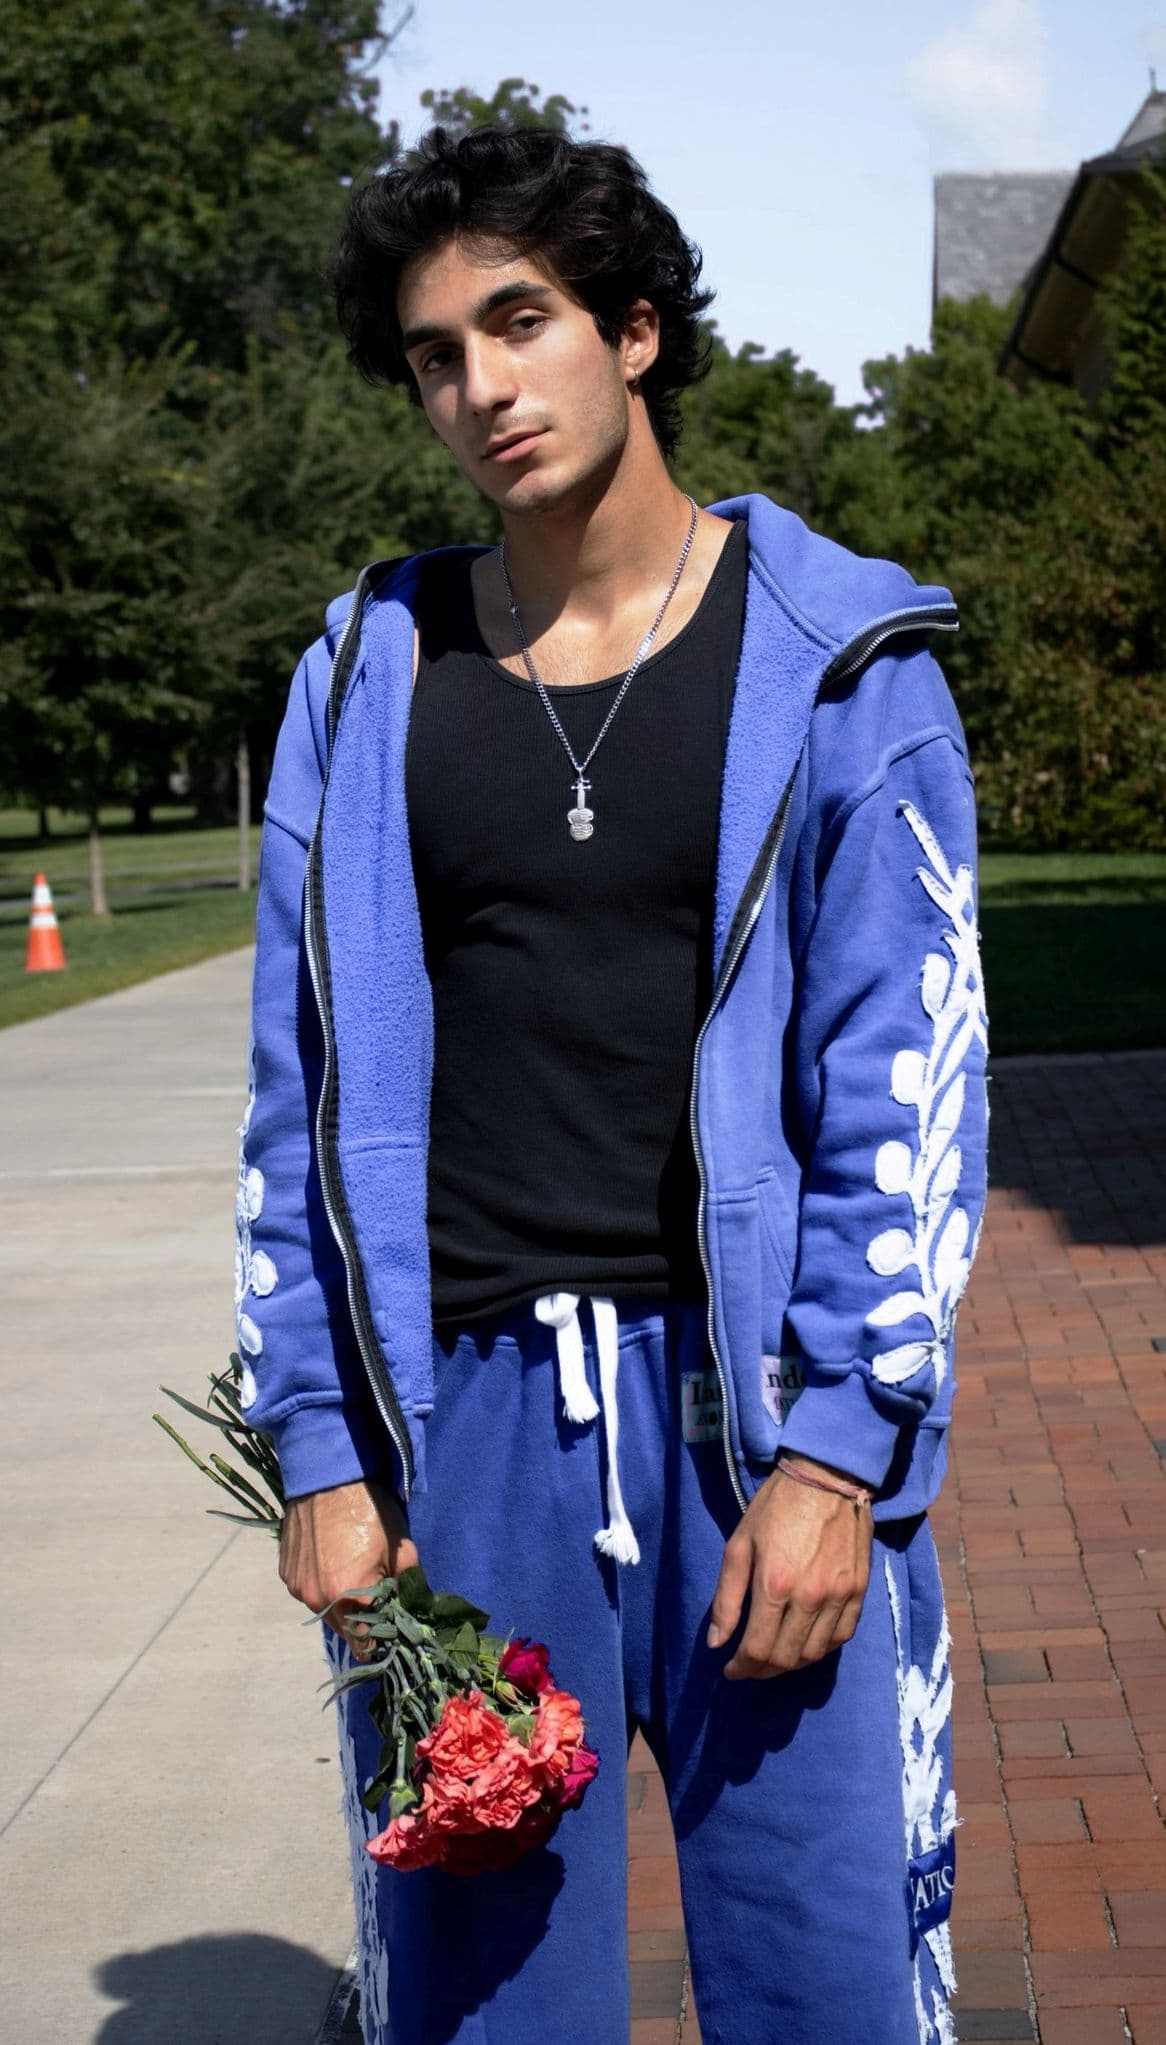
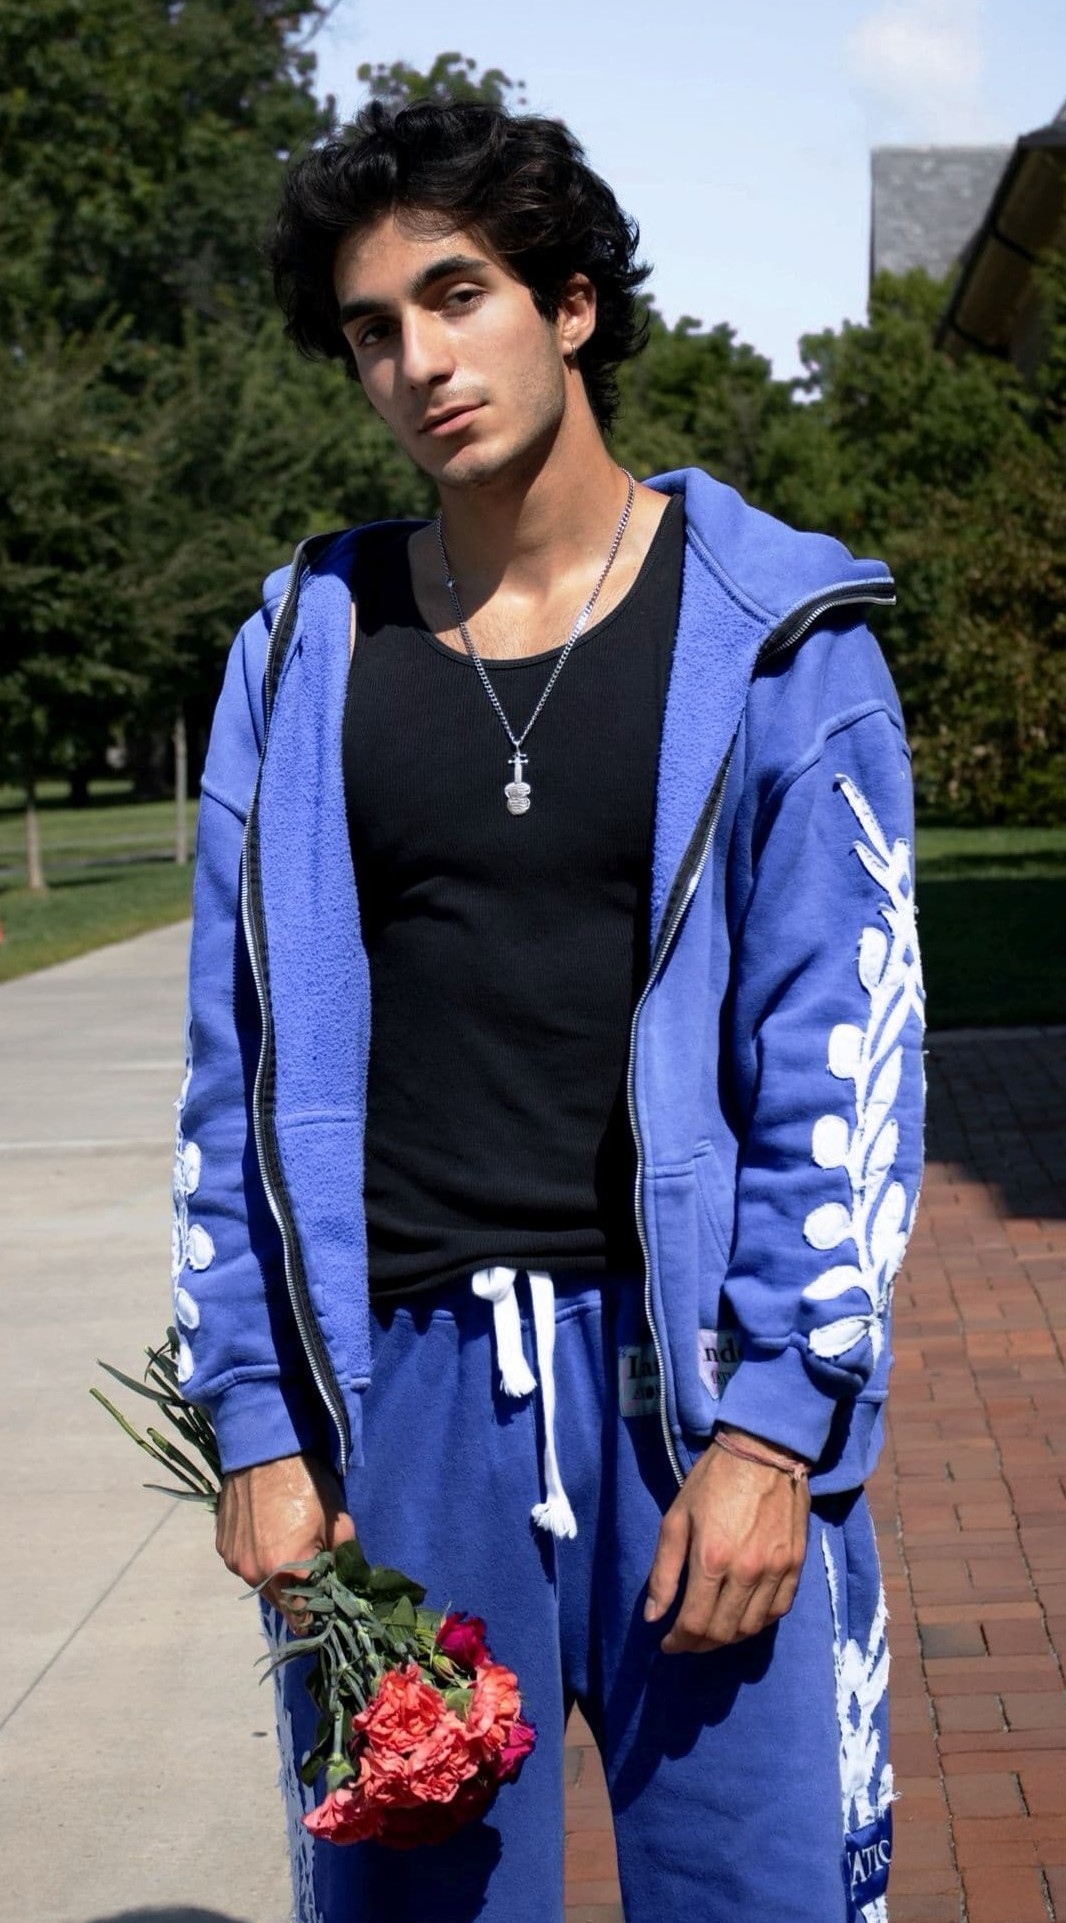
image and theme edits

diff --git a/_sass/custom.scss b/_sass/custom.scss
@@ -52,7 +52,7 @@
   --color-accent:                #C9A96E;
   --color-accent-rgb:            201, 169, 110; // rgb() of --color-accent, for alpha blends
   --color-banner-hover-border:  #381e30;
-  --color-profile-header-bg:    rgba(10, 10, 10, 0.95);
+  --color-profile-header-bg:    rgba(10, 10, 10, 0.6);
   --color-gallery-header-bg:    rgba(10, 10, 10, 0.85);
 }
 
@@ -642,8 +642,8 @@ footer {
 
 .stat-grid {
   display: grid;
-  grid-template-columns: repeat(2, minmax(72px, 80px));
-  gap: 8px;
+  grid-template-columns: repeat(3, minmax(75px, 100px));  // min for phones, max for desktop
+  gap: 10px;
   justify-content: center;
   margin-left: 8px;
 }
@@ -652,24 +652,29 @@ footer {
   display: flex;
   flex-direction: column;
   justify-content: center;
-  gap: 2px;
-  padding: 6px;
-  width: 76px;
-  height: 76px;
+  gap: 4px;
+  padding: 8px;
+  width: 100%;            
+  height: auto;           
+  aspect-ratio: 1 / 1;    
   min-height: 0;
   border: 0.5px solid $color-stat-item-border;
   border-radius: 6px;
 }
 
+.stat-val   { font-size: 20px; }
+.stat-label { font-size: 14px; }
+
 .stat-val {
-  font-size: 16px;
-  font-weight: 600;
+  font-size: 20px;
+  font-weight: 700;
   color: $color-stat-val;
   letter-spacing: 0.04em;
 }
 
 .stat-label {
-  font-size: 14px;
+  font-size: 20px;
+  font-weight: 500;
   letter-spacing: 0.12em;
   text-transform: uppercase;
   color: $color-stat-label;
@@ -882,12 +887,21 @@ footer {
       border: 2px solid $color-body-text;
 }
 
+.experience-img0 {
+  width: 100%;
+  height: 550px;
+  object-fit: cover;
+  object-position: 100% 70%; // edit
+  display: block;
+  filter: grayscale(15%);
+  transition: filter 0.3s ease;
+}
 
 .experience-img1 {
   width: 100%;
-  height: 100%;
+  height: 475px;
   object-fit: cover;
-  object-position: 50% 100%; // edit
+  object-position: 100% 70%; // edit
   display: block;
   filter: grayscale(15%);
   transition: filter 0.3s ease;
@@ -1056,7 +1070,7 @@ footer {
 
 .gallery-grid.thin-center {
   display: grid;
-  grid-template-columns: 450px 175px 450px;
+  grid-template-columns: 450px 450px;
   justify-content: center;
   gap: 12px;
   margin-bottom: 20px;
@@ -1065,7 +1079,7 @@ footer {
 
 .gallery-img {
   width: 100%;
-  height: 440px;
+  height: 600px;
   object-fit: cover;
   object-position: top;
   border-radius: 4px;
@@ -1105,7 +1119,6 @@ footer {
   transition: transform 0.3s ease, opacity 0.3s ease;
   object-position: center -60px;
     border: 2px solid $color-body-text;
-
   &:hover {
     transform: scale(1.02);
     opacity: 1;
@@ -1131,15 +1144,14 @@ footer {
 }
 
 .gallery-img4 {
-  width: 100%;
-  height: 790px;
+  width: 350px;
+  height: 620px;
   object-fit: cover;
-  object-position: top;
+  object-position: cover;
   border-radius: 4px;
   display: block;
   transition: transform 0.3s ease, opacity 0.3s ease;
-  object-position: center -40px;
-    border: 2px solid $color-body-text;
+  border: 2px solid $color-body-text;
 
   &:hover {
     transform: scale(1.02);
@@ -1182,9 +1194,9 @@ footer {
 
 .gallery-img7 {
   width: 100%;
-  height: 650px;
+  height: 600px;
   object-fit: cover;
-  object-position: center -50px;
+  object-position: top;
   border-radius: 4px;
   display: block;
   border: 2px solid $color-body-text;
@@ -1198,7 +1210,7 @@ footer {
 
 .gallery-img8 {
   width: 100%;
-  height: 650px; // matches .gallery-img7
+  height: 600px; // matches .gallery-img7
   object-fit: cover;
   object-position: center; 
   border-radius: 4px;

diff --git a/_pages/profile.md b/_pages/profile.md
@@ -42,9 +42,28 @@ permalink: /profile/
           <span class="stat-val">US 12</span>
           <span class="stat-label">Shoe</span>
         </div>
+        <div class="stat-item">
+          <span class="stat-val">US 12</span>
+          <span class="stat-label">Shoe</span>
+        </div>
+        <div class="stat-item">
+          <span class="stat-val">US 12</span>
+          <span class="stat-label">Shoe</span>
+        </div>
+        <div class="stat-item">
+          <span class="stat-val">US 12</span>
+          <span class="stat-label">Shoe</span>
+        </div>
+        <div class="stat-item">
+          <span class="stat-val">US 12</span>
+          <span class="stat-label">Shoe</span>
+        </div>
+        <div class="stat-item">
+          <span class="stat-val">US 12</span>
+          <span class="stat-label">Shoe</span>
+        </div>
       </div>
     </div>
-
     <div class="profile-block">
       <p class="profile-block-label">Contact</p>
       <a href="mailto:sharma.gregory@gmail.com" class="profile-detail-link">
@@ -68,18 +87,30 @@ permalink: /profile/
       </div>
       <div class="experience-text">
         <div class="experience-header">
-          <a href="https://www.youtube.com/watch?v=Tqh6uBpaqSo" class="experience-title" target="_blank">Cornell Fashion Collective</a>
+          <a href="https://www.youtube.com/watch?v=Tqh6uBpaqSo" class="experience-title" target="_blank">Cornell Fashion Collective Runway Show</a>
           <span class="experience-role">Runway Model</span>
         </div>
         <p class="experience-desc">Runway model for one of the largest student-run fashion shows in the country.</p>
         <div class="experience-links">
-          <a href="https://www.youtube.com/watch?v=FlkolF4dMwY" target="_blank" class="experience-link">42nd Show 2026 ↗</a>
-          <a href="https://www.youtube.com/watch?v=ANsi5BOJ9rM" target="_blank" class="experience-link">40th Show 2024 ↗</a>
-          <a href="https://www.youtube.com/watch?v=0pS1ETZoUC4" target="_blank" class="experience-link">39th Show 2023 ↗</a>
+          <a href="https://www.youtube.com/watch?v=FlkolF4dMwY" target="_blank" class="experience-link">42nd Show 2026</a>
+          <a href="https://www.youtube.com/watch?v=ANsi5BOJ9rM" target="_blank" class="experience-link">40th Show 2024</a>
+          <a href="https://www.youtube.com/watch?v=0pS1ETZoUC4" target="_blank" class="experience-link">39th Show 2023</a>
         </div>
       </div>
     </div>
     <div class="experience-item-alt reverse">
+      <div class="experience-img-wrap">
+        <img src="{{ "/assets/images/3M6A8551cropped.jpg" | relative_url }}" alt="photo" class="experience-img0"  loading="lazy">
+      </div>
+      <div class="experience-text">
+        <div class="experience-header">
+          <a href="https://threadmagazine.framer.website/" class="experience-title" target="_blank">Cornell Fashion Collective Magazine</a>
+          <span class="experience-role">Editorial Model</span>
+        </div>
+        <p class="experience-desc">Featured in photoshoots promoting the work of student designers.</p>
+      </div>
+    </div>
+    <div class="experience-item-alt">
       <div class="experience-img-wrap">
         <img src="{{ "/assets/images/DSC2.jpg" | relative_url }}" alt="photo" class="experience-img1"  loading="lazy">
       </div>
@@ -88,15 +119,15 @@ permalink: /profile/
           <a href="https://threadmagazine.framer.website/" class="experience-title" target="_blank">Cornell University Thread Magazine</a>
           <span class="experience-role">Editorial Model</span>
         </div>
-        <p class="experience-desc">Featured model for Cornell's premier student-run fashion, art, and culture magazine.</p>
+        <p class="experience-desc">Model for Cornell's premier student-run fashion, art, and culture magazine.</p>
         <div class="experience-links">
-          <a href="https://issuu.com/thethreadmagazine/docs/final_final" target="_blank" class="experience-link">Spring 2023 ↗</a>
-          <a href="https://issuu.com/thethreadmagazine/docs/thread_fw25_museum_of_matters" target="_blank" class="experience-link">Fall 2025 ↗</a>
-          <a href="https://issuu.com/thethreadmagazine/docs/thread_ss26_the_sports_magazine" target="_blank" class="experience-link">Spring 2026 ↗</a>
+          <a href="https://issuu.com/thethreadmagazine/docs/final_final" target="_blank" class="experience-link">Spring 2023</a>
+          <a href="https://issuu.com/thethreadmagazine/docs/thread_fw25_museum_of_matters" target="_blank" class="experience-link">Fall 2025</a>
+          <a href="https://issuu.com/thethreadmagazine/docs/thread_ss26_the_sports_magazine" target="_blank" class="experience-link">Spring 2026</a>
         </div>
       </div>
     </div>
-    <div class="experience-item-alt">
+    <div class="experience-item-alt reverse">
       <div class="experience-img-wrap">
         <img src="{{ "/assets/images/IMG_2217edlowerex.jpg" | relative_url }}" alt="Exomatic Minds" class="experience-img3" loading="lazy">
       </div>
@@ -107,7 +138,7 @@ permalink: /profile/
         </div>
         <p class="experience-desc">Promotional model for streetwear clothing brand Exomatic Minds.</p>
         <div class="experience-links">
-          <a href="https://exomaticminds.com/" target="_blank" class="experience-link">Brand Website ↗</a>
+          <a href="https://exomaticminds.com/" target="_blank" class="experience-link">Brand Website</a>
         </div>
       </div>
     </div>

diff --git a/_pages/gallery.md b/_pages/gallery.md
@@ -25,20 +25,8 @@ permalink: /projects/
 
   <div class="gallery-section">
     <div class="gallery-section-header">
-      <span class="gallery-section-role">Editorial Model</span>
-              <div class="gallery-section-title">Cornell Fashion Collective (Magazine)</div> 
-    <div class="gallery-grid thin-center">
-      <img src="{{ "/assets/images/3M6A8551cropped.jpg" | relative_url }}" alt="Fashion Collective 1" class="gallery-img2" loading="lazy">
-      <img src="{{ "/assets/images/EliBrownCFC-149cropped.jpg" | relative_url }}" alt="Fashion Collective 3" class="gallery-img3" loading="lazy">
-      <img src="{{ "/assets/images/3M6A5427croopedetc.jpg" | relative_url }}" alt="Fashion Collective 2" class="gallery-img25" loading="lazy">
-    </div>
-  </div>
-
-  <div class="gallery-section">
-    <div class="gallery-section-header">
         <div class="gallery-section-title">Recent Photoshoot</div> 
     <div class="gallery-grid">
-      <img src="{{ "/assets/images/DSC04614ecroppedex.jpg" | relative_url }}" alt="photo" class="gallery-img" loading="lazy" style="object-position: center bottom;">
       <img src="{{ "/assets/images/DSC04652ecroppedex.jpg" | relative_url }}" alt="photo" class="gallery-img" loading="lazy">
       <img src="{{ "/assets/images/DSC04637ecropped2.jpg" | relative_url }}" alt="photo" class="gallery-img" loading="lazy">
       <img src="{{ "/assets/images/DSC04669ecroppedex.jpg" | relative_url }}" alt="photo" class="gallery-img" loading="lazy">
@@ -50,6 +38,7 @@ permalink: /projects/
       <span class="gallery-section-role">Runway Model</span>
         <div class="gallery-section-title">Cornell Fashion Collective (Runway)</div> 
     <div class="gallery-grid">
+      <img src="{{ "/assets/images/EliBrownCFC-149cropped.jpg" | relative_url }}" alt="Fashion Collective 1" class="gallery-img4" loading="lazy">
       <img src="{{ "/assets/images/MRM06887ed.jpg" | relative_url }}" alt="Fashion Collective 1" class="gallery-img4" loading="lazy">
       <img src="{{ "/assets/images/1O4A3821cropped.jpg" | relative_url }}" alt="Fashion Collective 3" class="gallery-img4" loading="lazy">
     </div>
@@ -69,11 +58,12 @@ permalink: /projects/
   <div class="gallery-section">
     <div class="gallery-section-header">
       <span class="gallery-section-role">Promotional Model</span>
-  <div class="gallery-section-title">Exotic Minds</div> 
+  <div class="gallery-section-title">Exomatic Minds </div> 
     </div>
-    <div class="gallery-grid">
+  <div class="gallery-grid center-pair">   <!-- changed this line -->
       <img src="{{ "/assets/images/IMG_2217edlowerex.jpg" | relative_url }}" alt="Exomatic Minds 1" class="gallery-img8" loading="lazy">
-            <img src="{{ "/assets/images/IMG_2214blueex.jpg" | relative_url }}" alt="Exomatic Minds 3" class="gallery-img7" loading="lazy">
+      <img src="{{ "/assets/images/IMG_8460.jpg" | relative_url }}" alt="Exomatic Minds 1" class="gallery-img8" loading="lazy">
+      <img src="{{ "/assets/images/IMG_2214blueex.jpg" | relative_url }}" alt="Exomatic Minds 3" class="gallery-img7" loading="lazy">
     </div>
   </div>
 
@@ -83,8 +73,8 @@ permalink: /projects/
     </div>
     <div class="gallery-grid">
       <img src="{{ "/assets/images/IMG_7089cropped.jpg" | relative_url }}" alt="Extras 1" class="gallery-img9" loading="lazy">
-      <img src="{{ "/assets/images/P1010370croppedex.jpg" | relative_url }}" alt="Extras 2" class="gallery-img10" loading="lazy">
-            <img src="{{ "/assets/images/DSC01954croppeddoneex.jpg" | relative_url }}" alt="Extras 3" class="gallery-img11" loading="lazy">
+      <img src="{{ "/assets/images/DSC01954croppeddoneex.jpg" | relative_url }}" alt="Extras 2" class="gallery-img10" loading="lazy">
+            <img src="{{ "/assets/images/3M6A5427croopedetc.jpg" | relative_url }}" alt="Extras 3" class="gallery-img11" loading="lazy">
     </div>
   </div>
 
